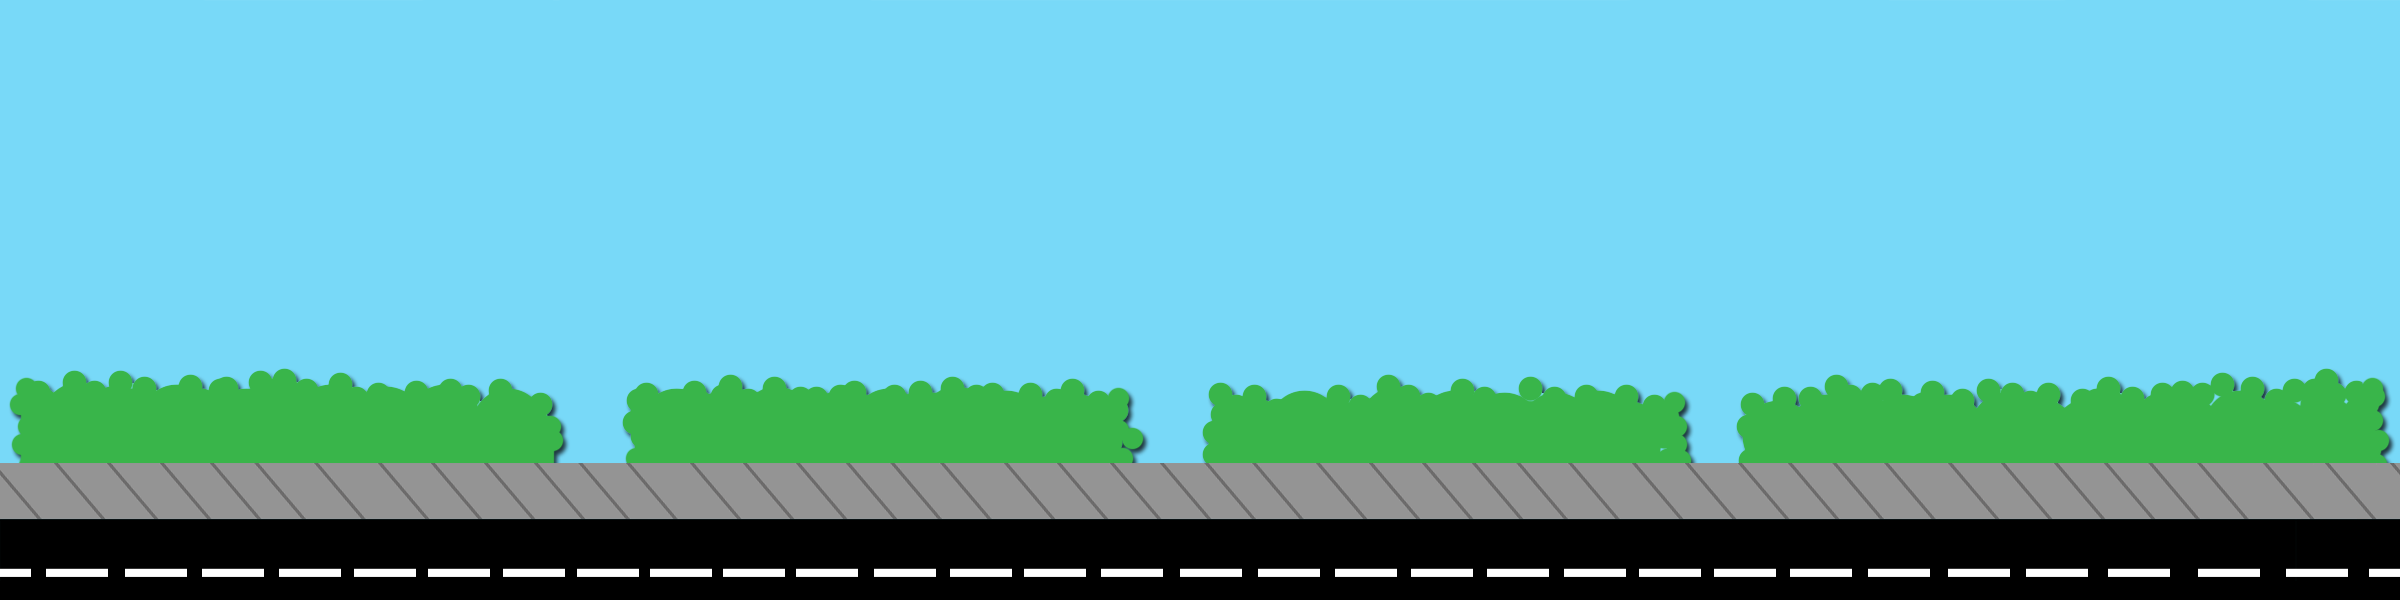
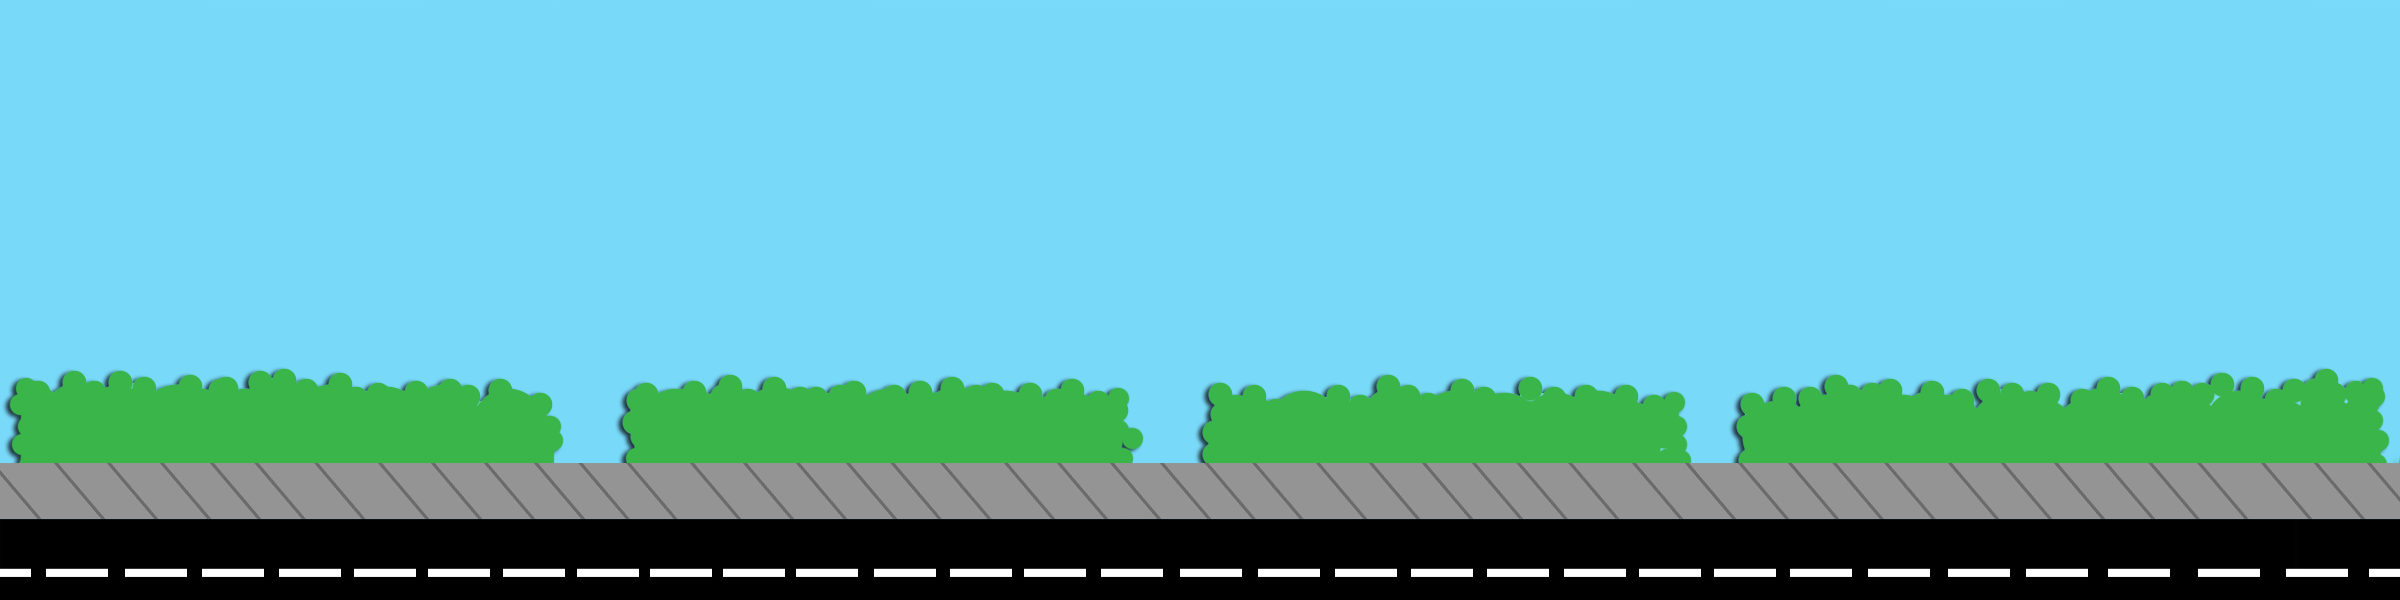
art tweaks (shadows) and heath almost online

diff --git a/src/EntityManager.java b/src/EntityManager.java
@@ -80,6 +80,9 @@ public class EntityManager {
 			if(entities.get(i).position.x < -(entities.get(i).getAnimationFrame().getWidth()) && this.entities.size() >= 1) entities.remove(i);
 		}
 		bird.update(input, delta);
+		if (this.exit){
+			System.out.println("You're dead! You shouldn't be playing!!!");
+		}
 		return this.exit;
 	}
 	

diff --git a/src/Health.java b/src/Health.java
@@ -60,8 +60,10 @@ public class Health {
 	public void decreaseHealth(){
 		if (getHealth() == 1){
 			setAlive(false);
+			System.out.println("Health: You are dead, sorry. Alive: " +isAlive());
 		} else {
 			setHealth(getHealth() - 1);
+			System.out.println("Health: Lost an egg. Current hp: " +getHealth());
 		}
 	}
 	

diff --git a/src/CollisionManager.java b/src/CollisionManager.java
@@ -24,6 +24,7 @@ public class CollisionManager
 					entity.handleCollision(bird);
 					// if health = 0 exit game.
 					exit = !(birdHealth.isAlive());
+					System.out.println("Collision: Exit? " +exit);
 				}
 			}
 		}
